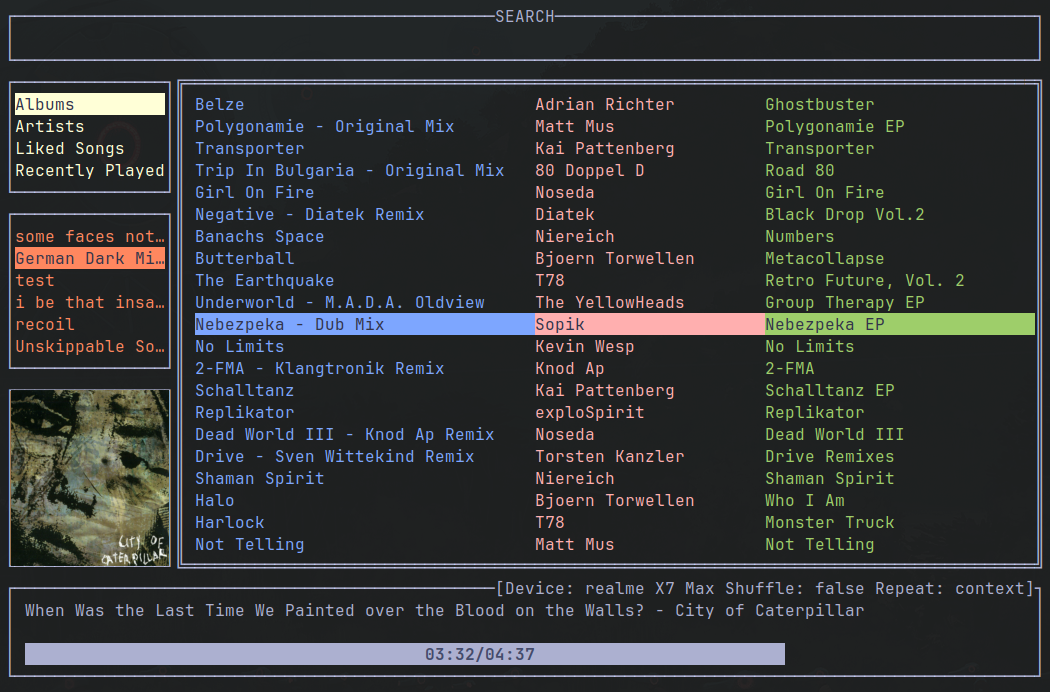
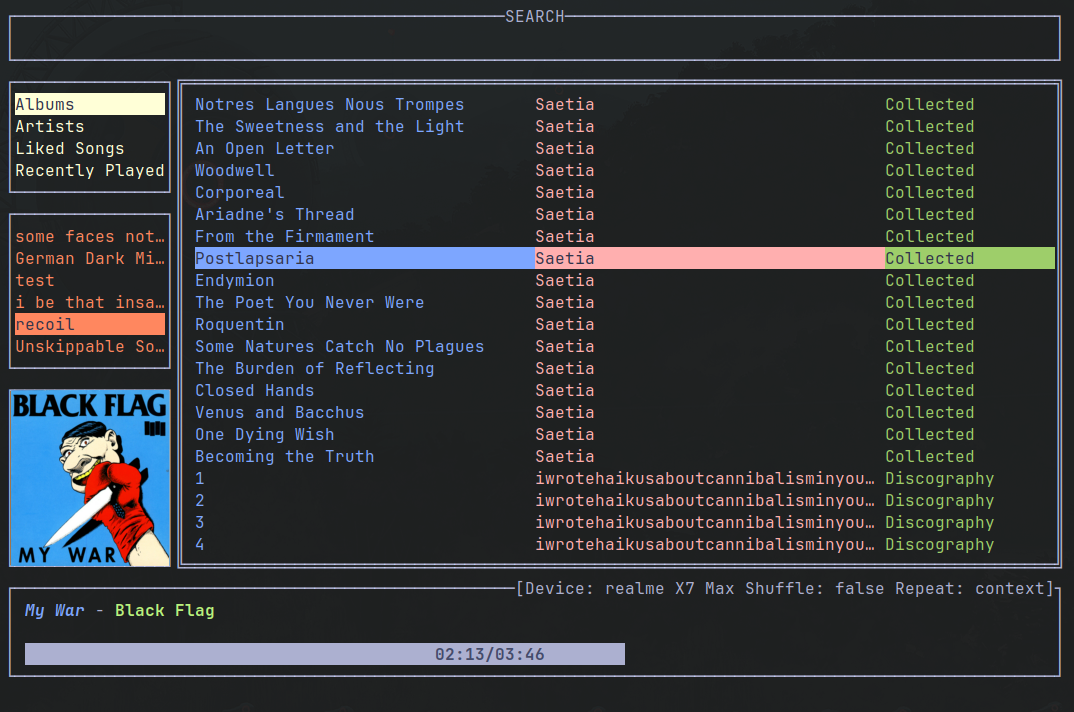
Add Colors to Progressbar

diff --git a/ui/progress.go b/ui/progress.go
@@ -144,7 +144,7 @@ func progressFunc() (string, string, string, float64) {
 	if state != nil {
 		barTopTitle = fmt.Sprintf("[Device: %s Shuffle: %t Repeat: %s]", state.Device.Name, state.ShuffleState, state.RepeatState)
 		if state.Item != nil {
-			barTitle = fmt.Sprintf("%s - %s", state.Item.Name, state.Item.Artists[0].Name)
+			barTitle = fmt.Sprintf("[blue:-:bi]%s[-:-:-] - [green:-:b]%s", state.Item.Name, state.Item.Artists[0].Name)
 			barText = utils.StrTime(float64(state.Progress/1000)) + "/" + utils.StrTime(float64(state.Item.Duration/1000))
 			percentage = (float64(state.Progress) / float64(state.Item.Duration)) * 100
 		}
